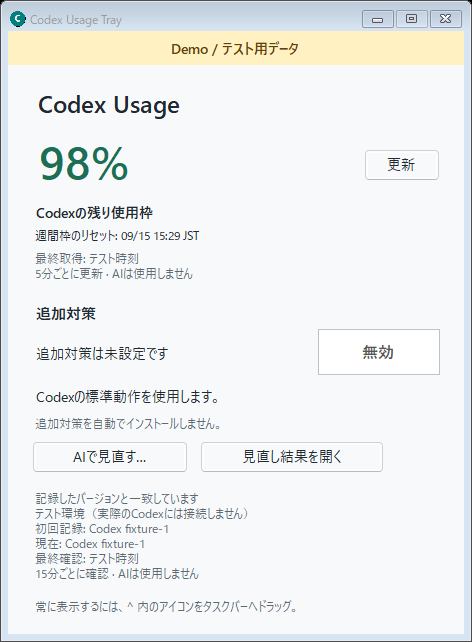
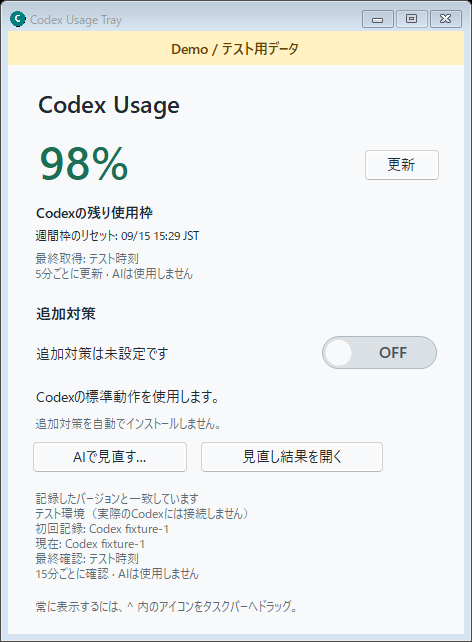
Show mitigation state with an accessible ON OFF switch

Changed region(s): [[0.6822, 0.4984, 0.9492, 0.5919]]

diff --git a/windows/UsageToggle.cs b/windows/UsageToggle.cs
@@ -185,6 +185,73 @@ internal static class StartupShortcuts
     }
 }
 
+internal sealed class ToggleSwitch : CheckBox
+{
+    public ToggleSwitch()
+    {
+        SetStyle(ControlStyles.UserPaint | ControlStyles.AllPaintingInWmPaint
+            | ControlStyles.OptimizedDoubleBuffer | ControlStyles.ResizeRedraw
+            | ControlStyles.SupportsTransparentBackColor, true);
+        Appearance = Appearance.Normal;
+        AutoSize = false;
+        BackColor = Color.Transparent;
+        AccessibleRole = AccessibleRole.CheckButton;
+    }
+
+    protected override void OnPaint(PaintEventArgs e)
+    {
+        e.Graphics.SmoothingMode = SmoothingMode.AntiAlias;
+        float scale = e.Graphics.DpiX / 96F;
+        float padding = 4F * scale;
+        float height = Math.Min(32F * scale, Height - 2F * padding);
+        RectangleF track = new RectangleF(padding, (Height - height) / 2F, Width - 2F * padding, height);
+        if (track.Width < height || height <= 4F) return;
+        bool known = Text == "ON" || Text == "OFF";
+        Color fill = !known ? Color.FromArgb(234, 238, 240)
+            : !Enabled ? (Checked ? Color.FromArgb(159, 187, 176) : Color.FromArgb(218, 224, 228))
+            : Checked ? Color.FromArgb(28, 111, 85) : Color.FromArgb(105, 117, 126);
+        Color stateText = known && Enabled ? Color.White : Color.FromArgb(73, 85, 93);
+        using (GraphicsPath shape = new GraphicsPath())
+        {
+            shape.AddArc(track.Left, track.Top, height, height, 90, 180);
+            shape.AddArc(track.Right - height, track.Top, height, height, 270, 180);
+            shape.CloseFigure();
+            using (Brush background = new SolidBrush(fill)) e.Graphics.FillPath(background, shape);
+            using (Pen outline = new Pen(!known || !Enabled ? Color.FromArgb(174, 185, 192) : fill, scale))
+                e.Graphics.DrawPath(outline, shape);
+        }
+        if (known)
+        {
+            float inset = 3F * scale;
+            float diameter = height - 2F * inset;
+            float left = Checked ? track.Right - inset - diameter : track.Left + inset;
+            RectangleF thumb = new RectangleF(left, track.Top + inset, diameter, diameter);
+            using (Brush white = new SolidBrush(Enabled ? Color.White : Color.FromArgb(247, 249, 250)))
+                e.Graphics.FillEllipse(white, thumb);
+            RectangleF label = Checked
+                ? RectangleF.FromLTRB(track.Left + inset, track.Top, thumb.Left - inset, track.Bottom)
+                : RectangleF.FromLTRB(thumb.Right + inset, track.Top, track.Right - inset, track.Bottom);
+            TextRenderer.DrawText(e.Graphics, Checked ? "ON" : "OFF", Font, Rectangle.Round(label), stateText,
+                TextFormatFlags.HorizontalCenter | TextFormatFlags.VerticalCenter | TextFormatFlags.SingleLine | TextFormatFlags.NoPadding);
+        }
+        else
+        {
+            // A missing/unfinished backend result is visibly unknown, never a false OFF.
+            TextRenderer.DrawText(e.Graphics, Text, Font, Rectangle.Round(track), stateText,
+                TextFormatFlags.HorizontalCenter | TextFormatFlags.VerticalCenter | TextFormatFlags.SingleLine | TextFormatFlags.NoPadding);
+        }
+        if (Focused && ShowFocusCues)
+            ControlPaint.DrawFocusRectangle(e.Graphics, new Rectangle(1, 1, Width - 2, Height - 2),
+                SystemColors.Highlight, Parent == null ? SystemColors.Control : Parent.BackColor);
+    }
+
+    protected override void OnCheckedChanged(EventArgs e) { base.OnCheckedChanged(e); Invalidate(); }
+    protected override void OnTextChanged(EventArgs e) { base.OnTextChanged(e); Invalidate(); }
+    protected override void OnEnabledChanged(EventArgs e) { base.OnEnabledChanged(e); Cursor = Enabled ? Cursors.Hand : Cursors.Default; Invalidate(); }
+    protected override void OnGotFocus(EventArgs e) { base.OnGotFocus(e); Invalidate(); }
+    protected override void OnLostFocus(EventArgs e) { base.OnLostFocus(e); Invalidate(); }
+}
+
 internal sealed class UsageToggleForm : Form
 {
     private readonly string python;
@@ -348,19 +415,15 @@ internal sealed class UsageToggleForm : Form
         summary.Size = new Size(274, 48);
         summary.TextAlign = ContentAlignment.MiddleLeft;
 
-        toggle = new CheckBox();
+        toggle = new ToggleSwitch();
         toggle.Name = "UsageToggle";
         toggle.AccessibleName = "Usage対策の有効・無効";
-        toggle.AccessibleDescription = "一時対策の設定を切り替えます。";
-        toggle.Appearance = Appearance.Button;
+        toggle.AccessibleDescription = "ONは有効、OFFは無効です。Spaceキーで切り替えます。";
         toggle.AutoCheck = false;
         toggle.Text = "確認中";
         toggle.Location = new Point(310, 78);
         toggle.Size = new Size(122, 46);
         toggle.TextAlign = ContentAlignment.MiddleCenter;
-        toggle.FlatStyle = FlatStyle.Flat;
-        toggle.FlatAppearance.BorderSize = 1;
-        toggle.FlatAppearance.BorderColor = Color.FromArgb(186, 196, 202);
         toggle.Font = new Font(Font.FontFamily, 12F, FontStyle.Bold);
         toggle.Enabled = false;
         toggle.TabIndex = 1;
@@ -570,10 +633,7 @@ internal sealed class UsageToggleForm : Form
             if (IsDisposed) return;
             enabled = reply.Enabled;
             toggle.Checked = enabled;
-            toggle.Text = enabled ? "有効" : "無効";
-            toggle.BackColor = enabled ? Color.FromArgb(28, 111, 85) : Color.White;
-            toggle.ForeColor = enabled ? Color.White : ForeColor;
-            toggle.FlatAppearance.CheckedBackColor = toggle.BackColor;
+            toggle.Text = enabled ? "ON" : "OFF";
             summary.Text = reply.Title;
             detail.Text = reply.Detail;
             expiry.Text = reply.ExpiresLabel;
@@ -592,8 +652,6 @@ internal sealed class UsageToggleForm : Form
             if (IsDisposed) return;
             toggle.Checked = false;
             toggle.Text = "未確認";
-            toggle.BackColor = Color.White;
-            toggle.ForeColor = ForeColor;
             toggle.Enabled = false;
             summary.Text = "状態を確認できません";
             detail.Text = error.Message + "\nこのウィンドウを開き直すと再確認できます。";

diff --git a/README.ja.md b/README.ja.md
@@ -52,11 +52,13 @@ Codexの変更を検知すると通知し、**AIで対策を見直しますか**
 
 公開版には特定の追加対策を入れていません。初回は **Codexの通常動作** を使用します。見直しの結論が「追加対策は不要」になる場合もあります。スイッチは、現在の環境に適用できる候補があるときに使えます。
 
-報告書を読んで **追加対策** を **有効** にすると、グローバルなCodexの`AGENTS.md`（通常は`%USERPROFILE%\.codex\AGENTS.md`、`CODEX_HOME`設定時はその場所）へ、アプリ管理の条件付き指示ブロックを追加します。これはプロジェクトをまたいで使われるCodexの指示です。既存のユーザー記述を保持し、変更前の内容をローカルにバックアップします。条件部分には、ユーザーのモデル・推論強度・必要な品質確認を維持する指示が含まれます。
+報告書を読んで **追加対策** を **ON** にすると、グローバルなCodexの`AGENTS.md`（通常は`%USERPROFILE%\.codex\AGENTS.md`、`CODEX_HOME`設定時はその場所）へ、アプリ管理の条件付き指示ブロックを追加します。これはプロジェクトをまたいで使われるCodexの指示です。既存のユーザー記述を保持し、変更前の内容をローカルにバックアップします。条件部分には、ユーザーのモデル・推論強度・必要な品質確認を維持する指示が含まれます。
 
-**無効** にすると対策を停止し、アプリが追加した未変更のブロックだけを取り除きます。そのブロックをユーザーが編集していた場合は、自動上書きせず保護します。Codexの変更・確認失敗、スイッチの無効化、確認用アプリの欠落・実行失敗時は、既存の会話に残ったコピーも含め、旧対策を適用しない条件になっています。固定の日付による期限はなく、更新後に自動で再有効化もしません。
+**OFF** にすると対策を停止し、アプリが追加した未変更のブロックだけを取り除きます。そのブロックをユーザーが編集していた場合は、自動上書きせず保護します。Codexの変更・確認失敗、スイッチの無効化、確認用アプリの欠落・実行失敗時は、既存の会話に残ったコピーも含め、旧対策を適用しない条件になっています。固定の日付による期限はなく、更新後に自動で再有効化もしません。
 
 このアプリは **Usage削減を一般的に保証するものではありません**。特定のサブエージェント動作が過剰なUsageの原因だと断定するものでもありません。提案する指示は、調べた根拠と環境に応じたものです。
+
+スイッチはONでつまみが右、OFFで左になります。確認中・未確認は別表示にし、切り替えが成功してから表示を更新します。
 
 ## 保存データ・困ったとき・削除
 
